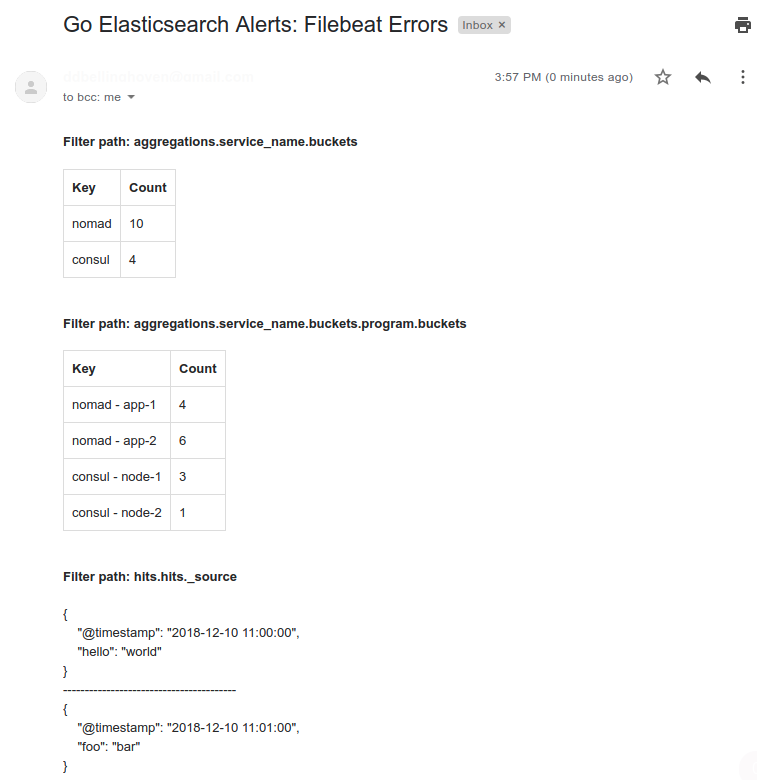
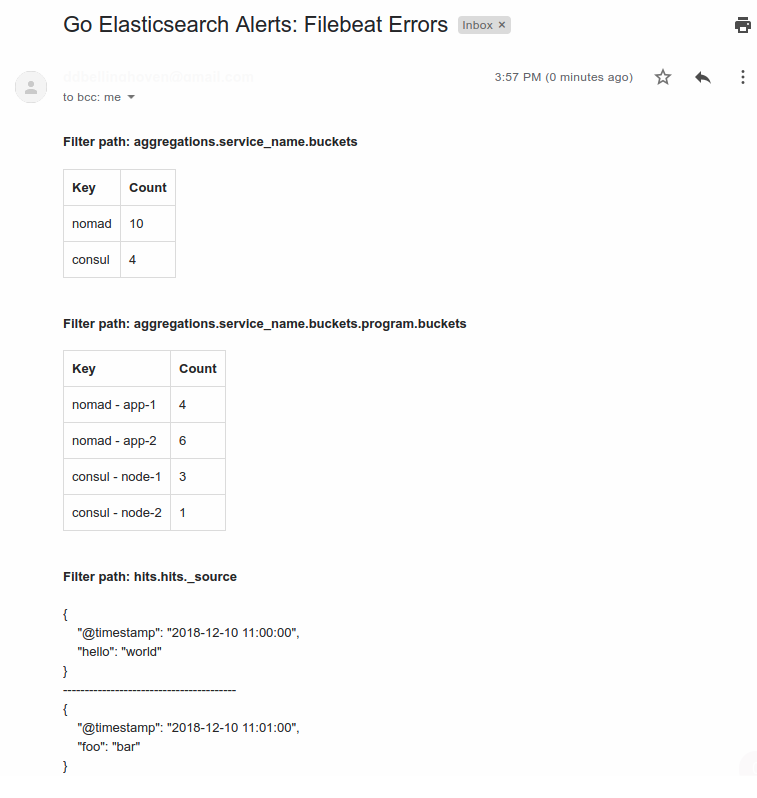
docs: Added shadow to some images

diff --git a/docs/_build/html/searchindex.js b/docs/_build/html/searchindex.js
@@ -1,1 +1,1 @@
-Search.setIndex({docnames:["index","user/install","user/intro","user/quickstart","user/setup","user/usage"],envversion:{"sphinx.domains.c":1,"sphinx.domains.changeset":1,"sphinx.domains.cpp":1,"sphinx.domains.javascript":1,"sphinx.domains.math":2,"sphinx.domains.python":1,"sphinx.domains.rst":1,"sphinx.domains.std":1,sphinx:54},filenames:["index.rst","user/install.rst","user/intro.rst","user/quickstart.rst","user/setup.rst","user/usage.rst"],objects:{},objnames:{},objtypes:{},terms:{"10m":4,"boolean":4,"default":4,"int":4,"new":4,"true":4,"while":2,For:[1,4],TLS:4,The:[2,4],There:4,_search:4,_sourc:4,about:0,abov:4,access:4,acl:4,address:4,affect:5,affili:2,after:4,agg:4,aggreg:4,agre:2,alert:[1,2,4],all:[2,4],also:[1,4],altern:2,alwai:4,alwya:4,amd64:1,ani:2,apach:2,api:4,app:4,appear:4,applic:[2,4],asdfasdf:4,assign:4,assum:4,authent:4,background:0,bar:4,basi:2,befor:4,begin:0,behavior:4,being:4,below:4,between:4,bin:1,binari:1,bit:1,bodi:[4,5],body_field:4,bool:4,brief:4,bucket:4,build:1,built:2,ca_cert:4,cacert:4,can:[1,4],cert:4,certif:4,client_cert:4,client_kei:4,clone:1,com:[1,4],command:1,commun:4,communc:4,compil:1,complianc:2,concaten:4,condit:2,config:4,configur:0,connect:4,consul:2,consul_cacert:4,consul_capath:4,consul_client_cert:4,consul_client_kei:4,consul_http_addr:4,consul_http_ssl:4,consul_http_ssl_verifi:4,consul_http_token:4,consul_lock_kei:4,consul_tls_server_nam:4,consult:2,contain:1,content:4,control:4,copi:2,copyright:2,correspond:4,cover:1,cron:4,cross:1,curl:4,current:4,custom:2,data:[2,4,5],defin:4,depend:4,detail:4,dictat:4,differ:4,directori:[1,4],disk:[2,4],distinct:2,distribut:[0,2,4],doc_count:4,docker:0,document:[0,1],download:0,each:4,either:[2,4],elast:4,elastalert:2,elasticsearch:[1,2],element:4,elsewher:4,email:2,enabl:4,encod:4,endpoint:4,environ:[1,4],error:4,etc:4,even:4,everi:4,exact:4,exampl:1,except:2,execut:4,exist:2,express:2,extens:4,fals:4,fashion:4,featur:[2,4],field:[4,5],file:[0,2],filebeat:4,filter:[0,2,5],finish:1,flexibl:2,focus:0,follow:[1,4],foo:4,found:1,from:[1,4],further:4,gener:[2,4],get:0,git:1,github:[1,4],given:4,gmail:4,go_elasticsearch_alerts_config_fil:4,go_elasticsearch_alerts_smtp_password:4,go_elasticsearch_alerts_smtp_usernam:4,gopath:1,govern:2,greater:2,group:4,has:2,hashicorp:4,have:[1,4],header:4,hello:4,hit:4,hook:4,host:4,hostnam:4,how:[4,5],http:[2,4],illustr:4,impli:2,includ:[2,5],index:4,inform:[0,4],instal:[0,4],instanc:4,instead:4,instruct:0,introduct:0,its:[2,4],job:4,json:4,keep:4,kei:4,kind:2,languag:2,law:2,leader:4,least:4,let:2,licens:0,limit:2,list:4,live:2,llc:2,local:[1,4],locat:[2,4],lock:[2,4],look:4,machin:1,mai:2,main:0,make:[1,4],manual:4,match:4,media:4,messag:4,method:[2,4],min_doc_count:4,mind:2,minut:4,more:4,morn:2,morningconsult:1,multipl:2,must:4,name:4,nil:4,node:4,nomad:4,note:4,object:4,onc:1,one:4,onli:4,oper:[0,2,4],option:4,org:2,output:[1,2],page:1,pars:4,part:[0,1],pass:4,password:4,path:4,pem:4,permiss:2,pertain:4,pleas:4,port:4,potenti:4,preced:4,prefer:1,present:4,privat:4,product:4,program:[2,4],project:[0,1],proper:4,provid:4,purpos:0,queri:[2,4],query_str:4,read:4,receiv:4,recommend:4,recommended:4,refer:4,releas:[0,1],reload:0,repositori:1,request:4,requir:[2,4],reserv:2,respond:4,respons:4,result:4,right:2,robfig:4,rule:[0,2],run:[1,4],schedul:4,scheme:4,screenshot:5,search:4,section:4,see:[2,4],send:4,sent:4,server_nam:4,servic:4,service_nam:4,set:4,setup:0,sever:2,should:4,show:5,shown:4,similar:2,simpl:2,simpli:1,simplic:2,sinc:4,size:4,slack:2,smtp:4,sni:4,softwar:2,some:[0,4],specif:[2,4],specifi:4,ssl:4,startup:0,step:0,still:1,string:4,stringifi:4,structur:4,summari:4,support:4,sure:4,synchron:4,syslog:4,system:4,take:4,target_goarch:1,target_goo:1,technic:4,ten:4,term:4,text:4,thei:4,therefor:4,thi:[0,1,2,4,5],three:4,timestamp:4,tls_enabl:4,tmp:4,todo:5,token:4,trigger:4,type:4,under:2,understand:4,unencrypt:4,unless:2,updat:2,upon:4,uri:4,url:4,usag:[0,4],use:[2,4],used:4,usernam:4,uses:4,using:[0,1,4],valid:4,valu:4,variabl:[1,4],variant:1,verif:4,verifi:4,verify_incom:4,version:[0,2],via:[1,2,4],warranti:2,webhook:4,when:4,where:4,whether:4,which:4,window:1,wish:[1,4],within:1,without:[2,4],world:4,would:4,write:[2,4],written:4,www:2,x86:1,you:[1,2,4],your:[1,4]},titles:["Go Elasticsearch Alerts","Installation","Introduction","&lt;no title&gt;","Setup","Usage"],titleterms:{The:0,alert:[0,5],client:4,configur:4,consul:4,distribut:5,docker:1,download:1,elasticsearch:[0,4],email:[4,5],exampl:4,file:[4,5],filter:4,get:1,guid:0,instal:1,introduct:2,licens:2,main:4,oper:5,output:4,paramet:4,purpos:2,reload:5,rule:[4,5],server:4,setup:4,slack:[4,5],startup:5,usag:5,user:0,version:5}})
+Search.setIndex({docnames:["index","user/install","user/intro","user/quickstart","user/setup","user/usage"],envversion:{"sphinx.domains.c":1,"sphinx.domains.changeset":1,"sphinx.domains.cpp":1,"sphinx.domains.javascript":1,"sphinx.domains.math":2,"sphinx.domains.python":1,"sphinx.domains.rst":1,"sphinx.domains.std":1,sphinx:54},filenames:["index.rst","user/install.rst","user/intro.rst","user/quickstart.rst","user/setup.rst","user/usage.rst"],objects:{},objnames:{},objtypes:{},terms:{"10m":4,"boolean":4,"default":4,"int":4,"new":4,"true":4,"while":2,For:[1,4],TLS:4,The:[2,4],There:4,_search:4,_sourc:4,about:0,abov:4,access:4,acl:4,address:4,affect:5,affili:2,after:4,agg:4,aggreg:4,agre:2,alert:[1,2,4],all:[2,4],also:[1,4],altern:2,alwai:4,alwya:4,amd64:1,ani:2,apach:2,api:4,app:4,appear:4,applic:[2,4],asdfasdf:4,assign:4,assum:4,authent:4,background:0,bar:4,basi:2,befor:4,begin:0,behavior:4,being:4,below:4,between:4,bin:1,binari:1,bit:1,bodi:[4,5],body_field:4,bool:4,brief:4,bucket:4,build:1,built:2,ca_cert:4,cacert:4,can:[1,4],cert:4,certif:4,client_cert:4,client_kei:4,clone:1,com:[1,4],command:1,commun:4,communc:4,compil:1,complianc:2,concaten:4,condit:2,config:4,configur:0,connect:4,consul:2,consul_cacert:4,consul_capath:4,consul_client_cert:4,consul_client_kei:4,consul_http_addr:4,consul_http_ssl:4,consul_http_ssl_verifi:4,consul_http_token:4,consul_lock_kei:4,consul_tls_server_nam:4,consult:2,contain:1,content:4,control:4,copi:2,copyright:2,correspond:4,cover:1,cron:4,cross:1,curl:4,current:4,custom:2,data:[2,4,5],defin:4,depend:4,detail:4,dictat:4,differ:4,directori:[1,4],disk:[2,4],distinct:2,distribut:[0,2,4],doc_count:4,docker:0,document:[0,1],download:0,each:4,either:[2,4],elastalert:2,elasticsearch:[1,2],element:4,elsewher:4,email:2,enabl:4,encod:4,endpoint:4,environ:[1,4],error:4,etc:4,even:4,everi:4,exact:4,exampl:1,except:2,execut:4,exist:2,express:2,extens:4,fals:4,fashion:4,featur:[2,4],field:[4,5],file:[0,2],filebeat:4,filter:[0,2,5],finish:1,flexibl:2,focus:0,follow:[1,4],foo:4,found:1,from:[1,4],further:4,gener:[2,4],get:0,git:1,github:[1,4],given:4,gmail:4,go_elasticsearch_alerts_config_fil:4,go_elasticsearch_alerts_smtp_password:4,go_elasticsearch_alerts_smtp_usernam:4,gopath:1,govern:2,greater:2,group:4,has:2,hashicorp:4,have:[1,4],header:4,hello:4,hit:4,hook:4,host:4,hostnam:4,how:[4,5],http:[2,4],illustr:4,impli:2,includ:[2,5],index:4,inform:[0,4],instal:[0,4],instanc:4,instead:4,instruct:0,introduct:0,its:[2,4],job:4,json:4,keep:4,kei:4,kind:2,languag:2,law:2,leader:4,least:4,let:2,licens:0,limit:2,list:4,live:2,llc:2,local:[1,4],locat:[2,4],lock:[2,4],look:4,machin:1,mai:2,main:0,make:[1,4],manual:4,match:4,media:4,messag:4,method:[2,4],min_doc_count:4,mind:2,minut:4,more:4,morn:2,morningconsult:1,multipl:2,must:4,name:4,nil:4,node:4,nomad:4,note:4,object:4,onc:1,one:4,onli:4,oper:[0,2,4],option:4,org:2,output:[1,2],page:1,pars:4,part:[0,1],pass:4,password:4,path:4,pem:4,permiss:2,pertain:4,pleas:4,port:4,potenti:4,preced:4,prefer:1,present:4,privat:4,product:4,program:[2,4],project:[0,1],proper:4,provid:4,purpos:0,queri:[2,4],query_str:4,read:4,receiv:4,recommend:4,recommended:4,refer:4,releas:[0,1],reload:0,repositori:1,request:4,requir:[2,4],reserv:2,respond:4,respons:4,result:4,right:2,robfig:4,rule:[0,2],run:[1,4],schedul:4,scheme:4,screenshot:5,search:4,section:4,see:[2,4],send:4,sent:4,server_nam:4,servic:4,service_nam:4,set:4,setup:0,sever:2,should:4,show:5,shown:4,similar:2,simpl:2,simpli:1,simplic:2,sinc:4,size:4,slack:2,smtp:4,sni:4,softwar:2,some:[0,4],specif:[2,4],specifi:4,ssl:4,startup:0,step:0,still:1,string:4,stringifi:4,structur:4,summari:4,support:4,sure:4,synchron:4,syslog:4,system:4,take:4,target_goarch:1,target_goo:1,technic:4,ten:4,term:4,text:4,thei:4,therefor:4,thi:[0,1,2,4,5],three:4,timestamp:4,tls_enabl:4,tmp:4,todo:5,token:4,trigger:4,type:4,under:2,understand:4,unencrypt:4,unless:2,updat:2,upon:4,uri:4,url:4,usag:[0,4],use:[2,4],used:4,usernam:4,uses:4,using:[0,1,4],valid:4,valu:4,variabl:[1,4],variant:1,verif:4,verifi:4,verify_incom:4,version:2,via:[1,2,4],warranti:2,webhook:4,when:4,where:4,whether:4,which:4,window:1,wish:[1,4],within:1,without:[2,4],world:4,would:4,write:[2,4],written:4,www:2,x86:1,you:[1,2,4],your:[1,4]},titles:["Go Elasticsearch Alerts","Installation","Introduction","&lt;no title&gt;","Setup","Usage"],titleterms:{The:0,alert:[0,5],client:4,configur:4,consul:4,distribut:5,docker:1,download:1,elasticsearch:[0,4],email:[4,5],exampl:4,file:[4,5],filter:4,get:1,guid:0,instal:1,introduct:2,licens:2,main:4,oper:5,output:4,paramet:4,purpos:2,reload:5,rule:[4,5],server:4,setup:4,slack:[4,5],startup:5,usag:5,user:0}})

diff --git a/docs/_build/html/user/setup.html b/docs/_build/html/user/setup.html
@@ -245,7 +245,7 @@ extension. There must be at least one rule for the program to operate.</p>
 group by <code class="docutils literal notranslate"><span class="pre">hits.hits._source</span></code>, <code class="docutils literal notranslate"><span class="pre">aggregations.service_name.buckets</span></code>, and
 <code class="docutils literal notranslate"><span class="pre">aggregations.service_name.buckets.program.buckets</span></code>, and write the results
 to Slack and local disk.</p>
-<div class="highlight-shell notranslate" id="curl-request"><div class="highlight"><pre><span></span>$ curl http://elastic.host/filebeat-*/_search <span class="se">\</span>
+<div class="highlight-shell notranslate" id="curl-request"><div class="highlight"><pre><span></span>$ curl http://https://my.elasticsearch.com/filebeat-*/_search <span class="se">\</span>
   --header <span class="s2">&quot;Content-Type: application/json&quot;</span> <span class="se">\</span>
   --data <span class="s1">&#39;{</span>
 <span class="s1">    &quot;query&quot;: {</span>
@@ -438,11 +438,11 @@ following data:</p>
 via Slack and email as shown below.</p>
 <div class="section" id="slack-output-example">
 <h3>Slack Output Example<a class="headerlink" href="#slack-output-example" title="Permalink to this headline">¶</a></h3>
-<img alt="../_images/slack.png" src="../_images/slack.png" />
+<img alt="../_images/slack.png" class="shadowed-image" src="../_images/slack.png" />
 </div>
 <div class="section" id="email-output-example">
 <h3>Email Output Example<a class="headerlink" href="#email-output-example" title="Permalink to this headline">¶</a></h3>
-<img alt="../_images/email.png" src="../_images/email.png" />
+<img alt="../_images/email.png" class="shadowed-image" src="../_images/email.png" />
 </div>
 </div>
 </div>

diff --git a/docs/_build/html/user/usage.html b/docs/_build/html/user/usage.html
@@ -35,10 +35,7 @@
             
   <div class="section" id="usage">
 <span id="id1"></span><h1>Usage<a class="headerlink" href="#usage" title="Permalink to this headline">¶</a></h1>
-<div class="section" id="version">
-<h2>Version<a class="headerlink" href="#version" title="Permalink to this headline">¶</a></h2>
 <p>TODO</p>
-</div>
 <div class="section" id="startup">
 <h2>Startup<a class="headerlink" href="#startup" title="Permalink to this headline">¶</a></h2>
 <p>TODO</p>
@@ -92,7 +89,6 @@
 <li class="toctree-l1"><a class="reference internal" href="install.html">Installation</a></li>
 <li class="toctree-l1"><a class="reference internal" href="setup.html">Setup</a></li>
 <li class="toctree-l1 current"><a class="current reference internal" href="#">Usage</a><ul>
-<li class="toctree-l2"><a class="reference internal" href="#version">Version</a></li>
 <li class="toctree-l2"><a class="reference internal" href="#startup">Startup</a></li>
 <li class="toctree-l2"><a class="reference internal" href="#alerting">Alerting</a></li>
 <li class="toctree-l2"><a class="reference internal" href="#distributed-operation">Distributed Operation</a></li>

diff --git a/docs/_build/html/index.html b/docs/_build/html/index.html
@@ -62,7 +62,6 @@ instructions for installing and using it.</p>
 </ul>
 </li>
 <li class="toctree-l1"><a class="reference internal" href="user/usage.html">Usage</a><ul>
-<li class="toctree-l2"><a class="reference internal" href="user/usage.html#version">Version</a></li>
 <li class="toctree-l2"><a class="reference internal" href="user/usage.html#startup">Startup</a></li>
 <li class="toctree-l2"><a class="reference internal" href="user/usage.html#alerting">Alerting</a></li>
 <li class="toctree-l2"><a class="reference internal" href="user/usage.html#distributed-operation">Distributed Operation</a></li>

diff --git a/docs/_build/html/_static/color.css b/docs/_build/html/_static/color.css
@@ -6,3 +6,10 @@
   font-family: 'Consolas', 'Menlo', 'DejaVu Sans Mono', 'Bitstream Vera Sans Mono', monospace;
   font-size: 0.9em;
 }
+
+.shadowed-image {
+  position: relative;
+  box-shadow: 1px 2px 4px rgba(0, 0, 0, .5);
+  padding: 10px;
+  background: white;
+}

diff --git a/docs/_static/color.css b/docs/_static/color.css
@@ -6,3 +6,10 @@
   font-family: 'Consolas', 'Menlo', 'DejaVu Sans Mono', 'Bitstream Vera Sans Mono', monospace;
   font-size: 0.9em;
 }
+
+.shadowed-image {
+  position: relative;
+  box-shadow: 1px 2px 4px rgba(0, 0, 0, .5);
+  padding: 10px;
+  background: white;
+}

diff --git a/command/query/transform.go b/command/query/transform.go
@@ -14,7 +14,6 @@
 package query
 
 import (
-	// "bytes"
 	"encoding/json"
 	"strings"
 

diff --git a/docs/user/setup.rst b/docs/user/setup.rst
@@ -428,8 +428,10 @@ Slack Output Example
 ~~~~~~~~~~~~~~~~~~~~
 
 .. image:: ../images/slack.png
+   :class: shadowed-image
 
 Email Output Example
 ~~~~~~~~~~~~~~~~~~~~
 
 .. image:: ../images/email.png
+   :class: shadowed-image
